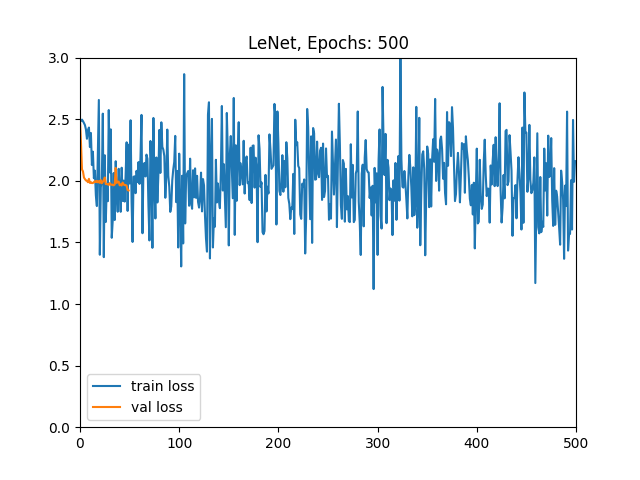
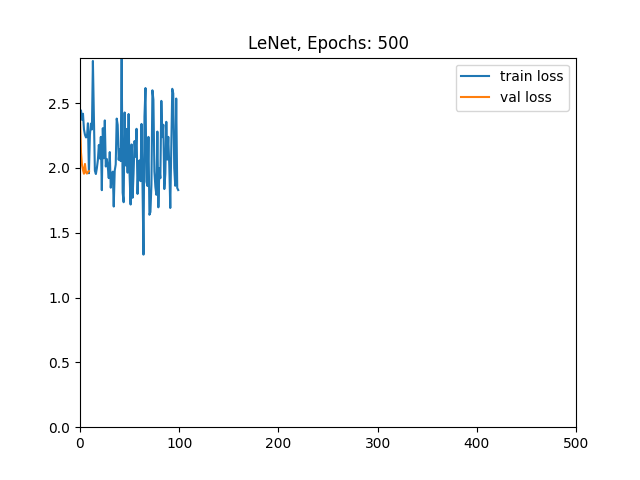
committing changes I forgot to commit the last time I made major changes; changed accuracy calculation logic

diff --git a/explore.py b/explore.py
@@ -1,10 +1,9 @@
 import pandas as pd
 import os
 import torch
+import time
 
 from utils import plot_loss
-
-
 
 # sum = 0
 # for dir in image_directories:
@@ -12,7 +11,6 @@ from utils import plot_loss
 #     sum += len(os.listdir(f"data/images/{dir}"))
 
 # print("total:", sum)
-
 
 cat_to_int = {
               'Chimney': 0, 
@@ -52,45 +50,62 @@ X_train, X_test, y_train, y_test = train_test_split(X / 255.0, y, test_size=0.2)
 import numpy as np
 
 losses = []
+acc = []
 val_losses = []
+
 batch_size = 8
-for step in range(500):
-    net.train()
-    batch = torch.randperm(X_train.shape[0])[:batch_size]
-    X_batch = X_train[batch].to(device)
-    y_batch = y_train[batch].to(device)
-    optimizer.zero_grad()
-    outputs = net(X_batch)
-    loss = criterion(outputs, y_batch)
-    loss.backward()
-    optimizer.step()
-    losses.append(loss.item())
-    train_acc = (outputs.argmax(1) == y_batch).float().mean()
+def train(epochs):
+    for step in range(epochs):
+        net.train()
 
-    if step % 10 == 0:
-        net.eval()
-        with torch.no_grad():
-            val_output = net(X_test.to(device))
-            # compute val accuracy
-            val_acc = (val_output.argmax(1) == y_test.to(device)).float().mean()
-            val_loss = criterion(val_output, y_test.to(device))
-            val_losses.append(val_loss.item())
-            print(f"Val Accuracy: {val_acc.item():.2f}")
-            print(f"Val Loss: {val_loss.item():.2f}")
-            print(f"Train Loss: {np.mean(losses[-50:]):.2f}")
-            print(f"Train Accuracy: {train_acc.item():.2f}")
-            accs_by_class = []
-            for j in range(11):
-                X_class = X_test[y_test == j]
+        batch = torch.randperm(X_train.shape[0])[:batch_size]
+        X_batch = X_train[batch].to(device)
+        y_batch = y_train[batch].to(device)
+
+        optimizer.zero_grad()
+
+        outputs = net(X_batch)
+        loss = criterion(outputs, y_batch)
+
+        loss.backward()
+        optimizer.step()
+
+        losses.append(loss.item())
+        train_acc = (outputs.argmax(1) == y_batch).float().mean()
+
+        
+        if step % 10 == 0:
+            cat_correct = {cat[0]: 0 for cat in cat_to_int.items()}
+            # print(cat_correct)
+            net.eval()
+            with torch.no_grad():
+                val_output = net(X_test.to(device))
+                # compute val accuracy
+                val_acc = (val_output.argmax(1) == y_test.to(device)).float().mean()
+                val_loss = criterion(val_output, y_test.to(device))
+                val_losses.append(val_loss.item())
+                os.system('cls') if os.name == 'nt' else os.system('clear')
                 
-                total = X_class.shape[0]
-                out_class = net(X_class.to(device))
-                # accuracy along this class
-                acc_class = (out_class.argmax(1) == j).float().mean().item()
-                print(f"Accuracy for class {int_to_cat[j]}: {acc_class:.2f}")
-                accs_by_class.append(acc_class)
-            print(f"Macro Accuracy: {np.mean(accs_by_class):.2f}")
+                print(f"Train Loss: {np.mean(losses[-50:]):.2f}")
+                print(f"Train Accuracy: {train_acc.item():.2f}")
+                print(f"Val Loss: {np.mean(val_losses[-50:]):.2f}")
+                print(f"Val Accuracy: {val_acc.item():.2f}")
+                
 
-plot_loss(
-    net._get_name(), losses, 500, val_losses, max(max(losses), max(val_losses))
-)
+                
+
+                for j in range(len(cat_correct)):
+                    X_class = X_test[y_test == j]                    
+                    cat = int_to_cat.get(j)
+                    out_class = net(X_class.to(device))
+
+                    cat_correct[cat] += (out_class.argmax(1) == j).int().sum().item()
+                    print(f"Accuracy for class {cat} {' '*(13-len(int_to_cat.get(j)))}: {cat_correct.get(int_to_cat.get(j))/(y_test == j).float().sum().item():.2f} ({cat_correct.get(int_to_cat.get(j))}/{(y_test == j).float().sum().item()})")
+                    
+                print(f"Macro Accuracy: {sum([b for a, b in cat_correct.items()])/y_test.shape[0]:.2f}")
+
+    plot_loss(
+        net._get_name(), losses, 500, val_losses, max(max(losses), max(val_losses))
+    )
+
+train(1000)

diff --git a/models/lenet.py b/models/lenet.py
@@ -10,7 +10,7 @@ class LeNet(nn.Module):
         self.conv2 = nn.Conv2d(6, 16, 5)
         self.fc1 = nn.Linear(11664, 120)
         self.fc2 = nn.Linear(120, 84)
-        self.fc3 = nn.Linear(84, 12)
+        self.fc3 = nn.Linear(84, 11)
 
     def forward(self, x):
         x = torch.permute(x, (0, 3, 1, 2))
